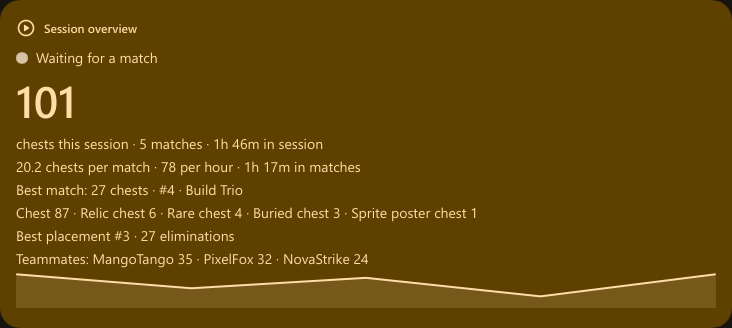
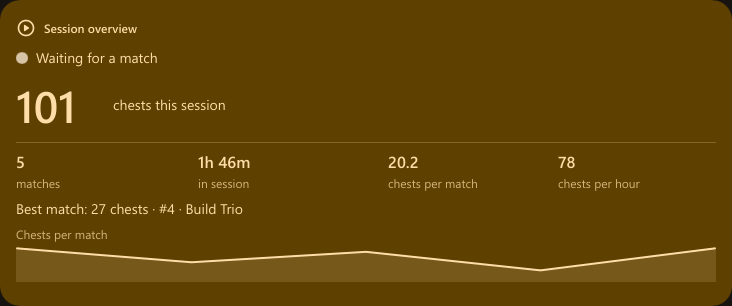
Simpler session overview card (0.8.7)
The 0.8.6 card had six lines of text and was hard to read. It now shows
the chest count with a caption, one row of four equal columns (matches,
time in session, chests per match, chests per hour), a best-match line and
a small labelled chart. Chest types, results and teammates are left to the
Statistics, Matches and Teammates pages.

README text and all pictures are regenerated for the new card from a
made-up demo ledger.

diff --git a/crates/app/src/cards.rs b/crates/app/src/cards.rs
@@ -4,7 +4,7 @@
 use crate::prefs::Prefs;
 use crate::theme::Theme;
 use crate::{
-    BarRow, CardData, Cell, ChartPoint, Check, HeatCell, RingData, Slice, TableRow, Trophy,
+    BarRow, CardData, Cell, ChartPoint, Check, Fact, HeatCell, RingData, Slice, TableRow, Trophy,
 };
 use chrono::{Datelike, Duration, Local, NaiveDate};
 use lootledger_core::stats::{self, Grain, MatchRow, Snapshot};
@@ -489,13 +489,17 @@ fn secs(seconds: f64) -> Duration {
     Duration::milliseconds((seconds * 1000.0).round() as i64)
 }
 
-/// "1 win", "2 wins" and so on.
-fn count_of(n: i64, word: &str) -> String {
-    format!("{n} {word}{}", if n == 1 { "" } else { "s" })
+fn fact(value: impl Into<SharedString>, label: &str) -> Fact {
+    Fact {
+        value: value.into(),
+        label: label.into(),
+    }
 }
 
 /// The session overview: your current play session (matches less than 30 minutes apart) or, when you are
-/// not playing, the last one. The dot and its text still say what the game is doing right now.
+/// not playing, the last one. The dot and its text still say what the game is doing right now. Only the
+/// essentials are here (chests, a row of four numbers, the best match and a small chart); the Statistics
+/// and Teammates pages have the rest.
 fn live_card(span: i32, ctx: &Context) -> CardData {
     let mut card = blank("live", "live", span, ctx);
     card.accent = true;
@@ -542,16 +546,14 @@ fn live_card(span: i32, ctx: &Context) -> CardData {
         _ => 0.0,
     };
 
-    let mut lines = Vec::new();
     if rows.is_empty() && !active {
         card.value = s("–");
-        lines.push(cell(
+        card.note = s(
             "Play a match and your session shows up here. Finished matches are added automatically. Fortnite must have Record Replays on.",
-            4,
-        ));
+        );
     } else {
         card.value = s(p.int(chests));
-        let head = if active {
+        card.caption = s(if active {
             "chests this session".to_owned()
         } else {
             let ended = last_end.unwrap_or(now);
@@ -565,104 +567,54 @@ fn live_card(span: i32, ctx: &Context) -> CardData {
                 )
             };
             format!("chests in your last session (ended {when})")
-        };
-        let progress = match (rows.is_empty(), live.state) {
-            (true, "live") => " · first match in progress".to_owned(),
-            (true, _) => " · reading your first match".to_owned(),
-            _ => format!(" · {}", plural(rows.len() as i64, "match")),
-        };
-        lines.push(cell(
-            format!("{head}{progress} · {} in session", p.duration(in_session)),
-            4,
-        ));
-        if !rows.is_empty() {
-            let per_match = chests as f64 / rows.len() as f64;
-            let mut pace = format!("{} chests per match", p.number(per_match, 1));
+        });
+        let mut facts = vec![
+            fact(
+                p.int(rows.len() as i64),
+                if rows.len() == 1 { "match" } else { "matches" },
+            ),
+            fact(p.duration(in_session), "in session"),
+        ];
+        if rows.is_empty() {
+            card.note = s(if live.state == "live" {
+                "Your first match is in progress. It is counted when it ends."
+            } else {
+                "Reading your first match…"
+            });
+        } else {
+            facts.push(fact(
+                p.number(chests as f64 / rows.len() as f64, 1),
+                "chests per match",
+            ));
             if in_matches > 0.0 {
-                pace += &format!(
-                    " · {} per hour · {} in matches",
+                facts.push(fact(
                     p.number(chests as f64 * 3600.0 / in_matches, 0),
-                    p.duration(in_matches)
-                );
+                    "chests per hour",
+                ));
             }
-            lines.push(cell(pace, 4));
         }
-        if rows.len() > 1
-            && let Some(best) = rows
+        card.facts = model(facts);
+        if rows.len() > 1 {
+            if let Some(best) = rows
                 .iter()
                 .copied()
                 .reduce(|a, b| if b.count > a.count { b } else { a })
-        {
-            let place = best
-                .placement
-                .map(|n| format!(" · #{n}"))
-                .unwrap_or_default();
-            lines.push(cell(
-                format!(
+            {
+                let place = best
+                    .placement
+                    .map(|n| format!(" · #{n}"))
+                    .unwrap_or_default();
+                card.note = s(format!(
                     "Best match: {} chests{place} · {}",
                     p.int(best.count),
                     best.mode
-                ),
-                4,
-            ));
-        }
-        let mut types = stats::Counter::default();
-        for row in &rows {
-            for (name, n) in &row.types.items {
-                types.add(name, *n);
+                ));
             }
-        }
-        if types.total() > 0 {
-            let types: Vec<String> = types
-                .most_common()
-                .iter()
-                .map(|(n, c)| format!("{n} {}", p.int(*c)))
-                .collect();
-            lines.push(cell(types.join(" · "), 4));
-        }
-        let mut results = Vec::new();
-        if let Some(best) = rows.iter().filter_map(|r| r.placement).min() {
-            results.push(format!("Best placement #{best}"));
-            let wins = rows.iter().filter(|r| r.placement == Some(1)).count() as i64;
-            if wins > 0 {
-                results.push(count_of(wins, "win"));
-            }
-        }
-        let eliminations: Vec<i64> = rows
-            .iter()
-            .filter_map(|r| r.stats.as_ref()?["eliminations"].as_i64())
-            .collect();
-        if !eliminations.is_empty() {
-            results.push(count_of(eliminations.iter().sum(), "elimination"));
-        }
-        if !results.is_empty() {
-            lines.push(cell(results.join(" · "), 4));
-        }
-        let mut mates: Vec<(String, i64)> = Vec::new();
-        for member in rows
-            .iter()
-            .flat_map(|r| r.squad.iter().flatten())
-            .filter(|m| !m.me && m.total > 0)
-        {
-            match mates.iter_mut().find(|(name, _)| *name == member.name) {
-                Some((_, n)) => *n += member.total,
-                None => mates.push((member.name.clone(), member.total)),
-            }
-        }
-        mates.sort_by_key(|(_, n)| std::cmp::Reverse(*n));
-        if !mates.is_empty() {
-            let top: Vec<String> = mates
-                .iter()
-                .take(3)
-                .map(|(name, n)| format!("{name} {}", p.int(*n)))
-                .collect();
-            lines.push(cell(format!("Teammates: {}", top.join(" · ")), 4));
-        }
-        if rows.len() > 1 {
             let values: Vec<f64> = rows.iter().map(|r| r.count as f64).collect();
             let (line, area) = spark(&values);
             card.spark_line = s(line);
             card.spark_area = s(area);
+            card.spark_label = s("Chests per match");
             card.spark_tips = model(
                 rows.iter()
                     .enumerate()
@@ -687,7 +639,6 @@ fn live_card(span: i32, ctx: &Context) -> CardData {
         card.pop_color = color(rare.map_or(t.color("on_primary_container"), |n| t.type_color(n)));
         card.pop_id = live.pop_id;
     }
-    card.lines = model(lines);
     card
 }
 

diff --git a/crates/app/src/main.rs b/crates/app/src/main.rs
@@ -1964,7 +1964,7 @@ const PAGE_NAMES: [&str; 6] = [
     "Settings",
 ];
 const WHATS_NEW: [&str; 3] = [
-    "The Current match card is now a Session overview: chests, time played, best match, chest types, results and teammates for the session you are playing.",
+    "The Session overview card is simpler and easier to read: your chests, four numbers (matches, time, chests per match and per hour), your best match and a small chart.",
     "A session is a run of matches less than 30 minutes apart. When you are not playing, the card shows your last session.",
     "Your data still never leaves this PC; only the version check and the download go over the internet.",
 ];

diff --git a/README.md b/README.md
@@ -34,14 +34,14 @@ LootLedger never touches the game. It doesn't read game memory, inject anything 
 
 The first card on the Overview page follows the session you are playing right now. A session is a run of matches less than 30 minutes apart. When you stop, the card keeps showing your last session and when it ended.
 
-<img src=".github/readme/session.png" width="732" alt="The Session overview card: chests, time in the session, chests per match and per hour, best match, chest types, results and teammates">
+<img src=".github/readme/session.png" width="732" alt="The Session overview card: chests this session, then matches, time in the session, chests per match and per hour, the best match and a small chart">
 
 - **Chests** opened this session, with a "+N" pop-up for each match as it is counted.
-- **Time:** how long the session has lasted and how much of it was in matches.
-- **Pace:** chests per match and per hour.
-- **Your best match** of the session, the chest types you opened, your best placement, wins and eliminations.
-- **Teammates:** who opened the most chests, and a small chart of chests per match.
+- **Four numbers:** matches played, time in the session, chests per match and chests per hour.
+- **Your best match** of the session and a small chart of chests per match.
 - The dot at the top shows what the game is doing: waiting, live, reading the replay or match counted.
+
+Chest types, placements and teammates for every match are on the Statistics, Matches and Teammates pages.
 
 ### A dashboard you can arrange
 

diff --git a/VALIDATION.md b/VALIDATION.md
@@ -37,6 +37,9 @@ What has been checked, and what has not. Earlier history (the Python app and the
   - **Checked:** a unit test builds three matches and checks that a 20-minute gap keeps one session and a 3-hour gap starts a new one. A screenshot of the card from the real ledger (16 matches, 1,317 chests, 6 h 18 m) was checked in the dark and light theme.
   - **Not yet verified:** the card during a live match and just after one (its clock, the "+N" pop and the 30-second refresh while waiting). The session time counts from the first match's start, so lobby time between matches is included.
   - **Note:** the "This session" stat tile and the counter still count chests since LootLedger was opened, which can differ from this card.
+- **Simpler session card (0.8.7):** the 0.8.6 card had six text lines and was hard to read. It now has the chest count, one row of four numbers (matches, time in session, chests per match, chests per hour), a best-match line and a chart. Chest types, results and teammates were removed from it.
+  - **Checked:** screenshots in the dark and light theme from a made-up ledger (active session) and from a copy of the real ledger (last session); the four columns are equal width.
+  - **Not yet checked:** a narrow card (one column wide), where the labels wrap.
 - **Runtime:** the release exe imports only Windows system DLLs (no dynamic CRT, Python, Qt, .NET or WebView).
 - **Taskbar icon (0.8.2):** an off-screen window reported both a large and a small icon through WM_GETICON.
 - **Match pop-up (0.8.3):**
